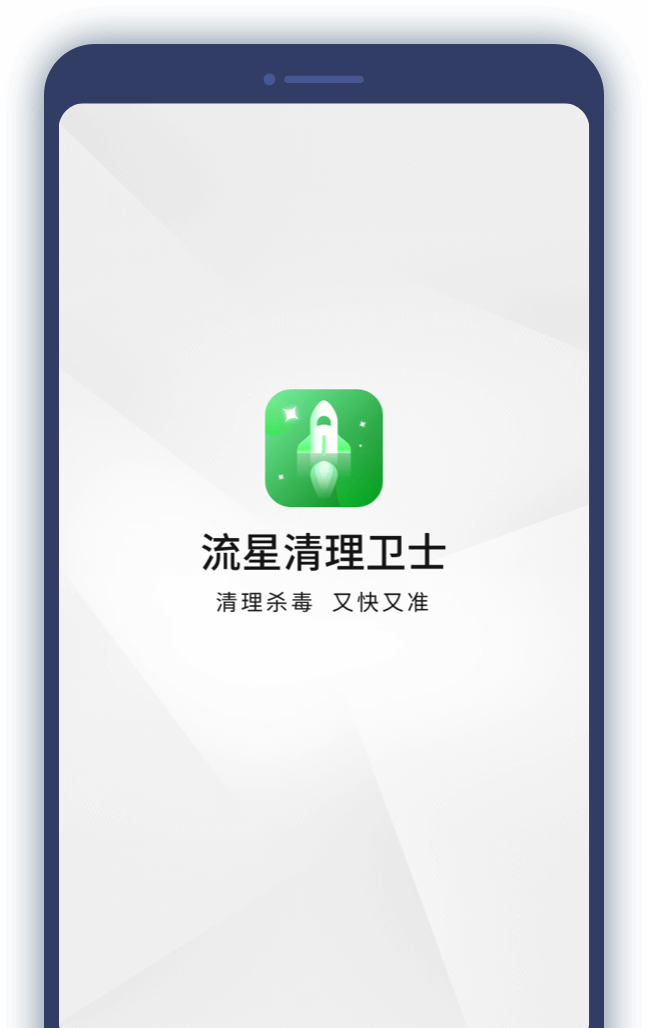
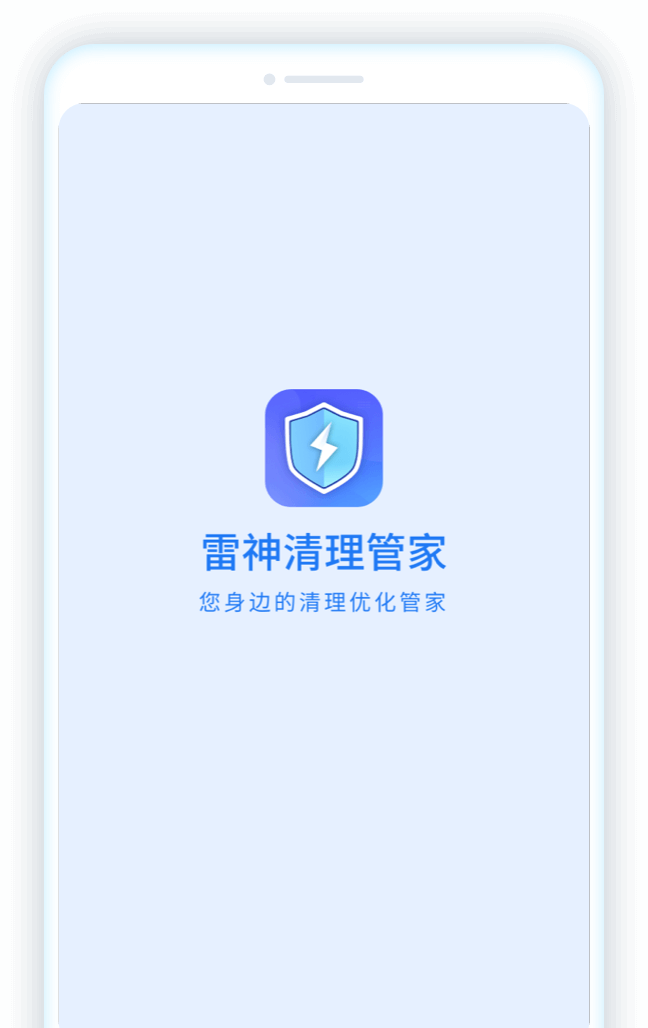
铂展悦动

Changed region(s): [[0.0309, 0.0311, 0.9568, 1.0], [0.3086, 0.3735, 0.7099, 0.6226]]

diff --git a/src/view/Home.js b/src/view/Home.js
@@ -7,15 +7,20 @@ function Home() {
 
                </div>
                <div className="icon-box">
+               <div className="about-title fs-36 mt-36 bold">
+                        <div className="tit">
+                            我们的产品
+                        </div>
+                    </div>
                 <ul className="flex-justify-center">
                     <li>
                         <div className="flex-column flex-items-center">
                             <img src={require("../assets/images/logo1.png")} alt="" width="118" height="118"/>
                             <div className="fs-24 mt-24">
-                            流星清理卫士
+                            雷神清理管家
                             </div>
-                            <div className="fs-16 fc-w6  mt-16 bold-200">
-                            清理杀毒  又快又准
+                            <div className="fs-16 fc-w6  mt-16 bold-200 fc-hui6">
+                            您身边的清理优化管家
                             </div>
                         </div>
                     </li>
@@ -23,10 +28,10 @@ function Home() {
                         <div className="flex-column flex-items-center">
                             <img src={require("../assets/images/logo2.png")} alt="" width="118" height="118"/>
                             <div className="fs-24 mt-24">
-                            星秀酷炫来电秀
+                            天眼大师手机清理
                             </div>
-                            <div className="fs-16 fc-w6  mt-16 bold-200">
-                            打造你的专属来电秀
+                            <div className="fs-16 fc-w6  mt-16 bold-200 fc-hui6">
+                            手机清理快而准
                             </div>
                         </div>
                     </li>
@@ -34,10 +39,10 @@ function Home() {
                         <div className="flex-column flex-items-center">
                             <img src={require("../assets/images/logo3.png")} alt="" width="118" height="118"/>
                             <div className="fs-24 mt-24">
-                            简变P图
+                            樱桃超炫来电秀
                             </div>
-                            <div className="fs-16 fc-w6  mt-16 bold-200">
-                            一步带你玩转P图
+                            <div className="fs-16 fc-w6  mt-16 bold-200 fc-hui6">
+                            樱桃超炫来电秀
                             </div>
                         </div>
                     </li>

diff --git a/src/view/Product.js b/src/view/Product.js
@@ -11,9 +11,9 @@ function Product() {
             width="118"
             height="118"
           />
-          <div className="fs-40 mt-24">流星清理卫士</div>
+          <div className="fs-40 mt-24">雷神清理管家</div>
           <div className="fs-20 mt-24 bold-200">
-            便捷的手机清理软件，有效地解决手机使用过程中卡顿、发热、内存不足的问题
+          一款专业的手机清理优化工具，是清除内存垃圾的好助手，你身边最贴心的内存清理大师！
           </div>
         </div>
         <div>
@@ -41,9 +41,9 @@ function Product() {
             width="118"
             height="118"
           />
-          <div className="fs-40 mt-24">星秀酷炫来电秀</div>
+          <div className="fs-40 mt-24">天眼大师手机清理</div>
           <div className="fs-20 mt-24 bold-200 ">
-          让你的来电秀不限于单调的系统默认，热门潮流主题，轻松设置个性有趣的来电视频
+          一键清理手机中的垃圾文件，释放超乎你想像的储存空间；内存，解决手机卡慢问题。是您手机垃圾清理必备神器！
           </div>
         </div>
       </div>
@@ -55,9 +55,9 @@ function Product() {
             width="118"
             height="118"
           />
-          <div className="fs-40 mt-24">简变P图</div>
+          <div className="fs-40 mt-24">樱桃超炫来电秀</div>
           <div className="fs-20 mt-24 bold-200">
-          一键换背景，艺术滤镜，瞬间P掉路人！ 海量模板，让你一键生成证件照、节日贺卡、头像、表情包、海报、Vlog封面
+          全网火热来电视频主题动画显示，爱上来电的感觉 个性、潮流、酷炫的来电秀视频主题动画显示
           </div>
         </div>
         <div>

diff --git a/src/view/About.js b/src/view/About.js
@@ -4,6 +4,7 @@ function About() {
         return (
             <div className="about flex-justify-center flex-column">
                <div className="banner flex-items-center flex-justify-center bold">
+                <img src={require("../assets/images/about_banner.png")} alt=""/>
                </div>
                <div className="flex-column flex-items-center">
                     <div className="about-title fs-36 mt-36 bold">
@@ -13,13 +14,13 @@ function About() {
                     </div>
                     <div className="about-content fs-24 text-center">
                         <div>
-                        北京铂讯悦动科技有限公司
+                        北京铂展悦动科技有限公司
                         </div>
                         <div className="mt-30">
-                        联系电话：13021236277（周一至周日，10:00-18:00）
+                        联系电话：010-57625289（周一至周日，10:00-18:00）
                         </div>
                         <div className="mt-30">
-                        联系地址：北京市朝阳区高碑店乡半壁店村惠河南街1008号B座5层东区5018
+                        联系地址：北京市朝阳区高碑店乡半壁店村惠河南街1008号B座5层东区5026
                         </div>
                     </div>
                </div>

diff --git a/src/components/Footer.js b/src/components/Footer.js
@@ -3,8 +3,8 @@ import '../assets/css/Footer.styl'
 function Footer() {
         return (
             <div className="footer  flex-column flex-items-center flex-justify-center">
-               <div className="fs-16">© 北京铂讯悦动科技有限公司 版权所有</div>
-               <div className="fs-16 mt-16">京ICP备2021011324号-1</div>
+               <div className="fs-16">© 北京铂展悦动科技有限公司 版权所有</div>
+               <div className="fs-16 mt-16">京ICP备2021011326号-1</div>
             </div>
         );
     }

diff --git a/src/components/Header.js b/src/components/Header.js
@@ -36,7 +36,7 @@ function Header(props) {
           width="48"
           height="48"
         />
-        <span className="ml-10 fs-30 bold fc-white">北京铂讯悦动科技有限公司</span>
+        <span className="ml-10 fs-30 bold fc-hui8">北京铂展悦动科技有限公司</span>
       </div>
       <div className="flex-items-center nav">
         {linkArr.map((item, index) => {
